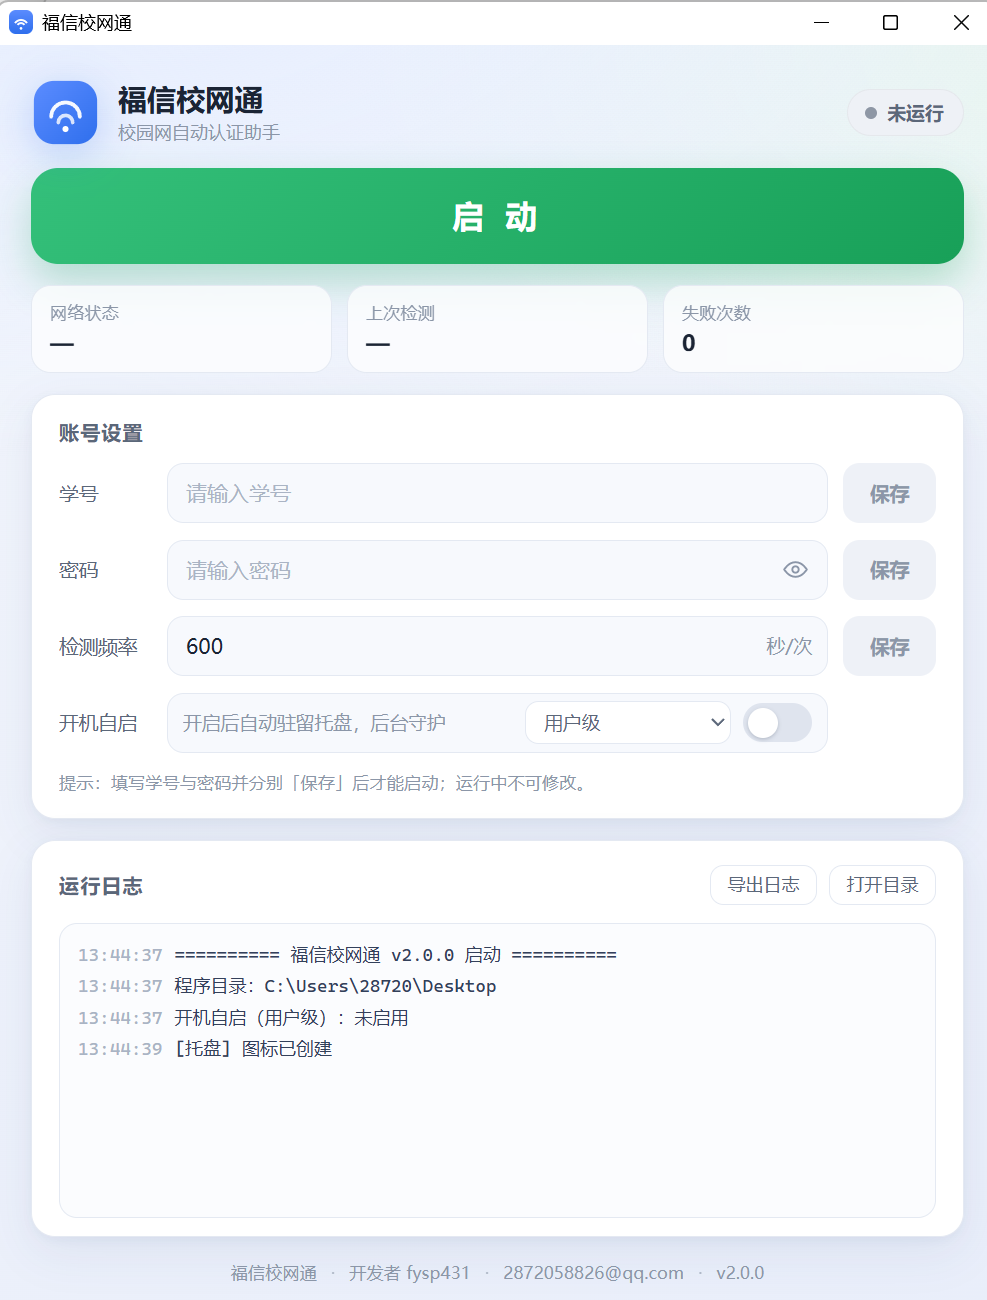
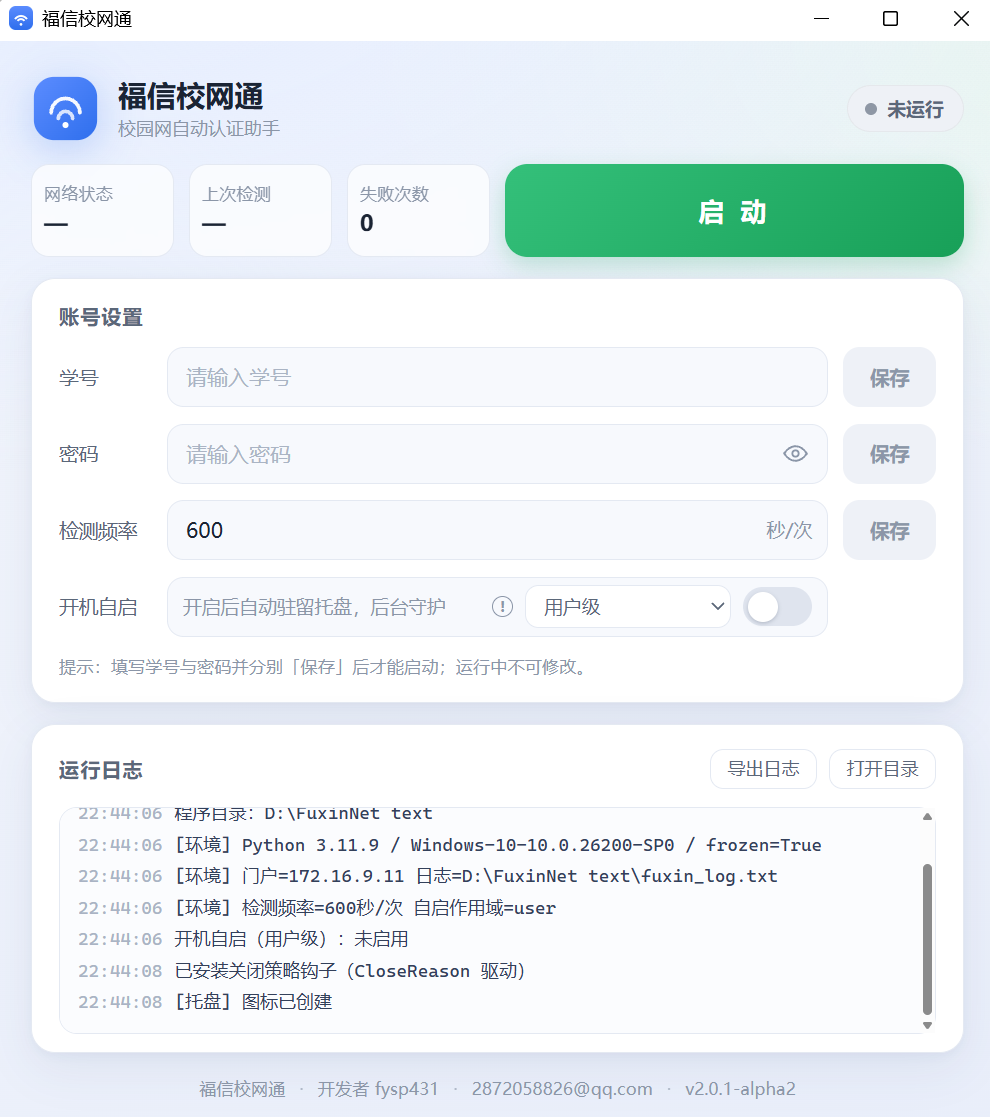
docs: 更新界面截图和README.md文件

diff --git a/README.md b/README.md
@@ -3,7 +3,7 @@
 > 断网自动重连，告别手动点「登录」。一个常驻托盘的小工具，专为 **福建信息职业技术学院平潭校区（FJPIT）** 校园网 ePortal 认证打造。
 
 <p>  
-  <img alt="version" src="https://img.shields.io/badge/version-v2.0.1--alpha1-2f6fed">  
+  <img alt="version" src="https://img.shields.io/badge/version-v2.0.1--alpha2-2f6fed">  
   <img alt="platform" src="https://img.shields.io/badge/platform-Windows%2010%2F11%20x64-0078d4">  
   <img alt="python" src="https://img.shields.io/badge/python-3.11-3776ab">  
   <img alt="ui" src="https://img.shields.io/badge/UI-pywebview%20%2B%20WebView2-18a058">  
@@ -40,9 +40,18 @@
 - 日志超过 2 MB 自动轮转，保留 3 份历史（`.1`~`.3`）
 - 检测频率最低 **10 秒/次**；需在停止状态下修改，下次启动生效
 
+**自动运行与关机记录**
+
+- **记住上次运行状态**：启动时若上次退出前监控正在运行（且已保存账号密码），自动开始检测；手动点「停止」后下次不再自动运行
+- **等待网络就绪**：开机/启动时先等门户可达，最多 **180 秒**、每 5 秒重试；等待期间**不计入失败次数**，超时也照常进入检测循环
+- **关闭原因分类**：托盘「退出」、系统关机/注销（明确记录为非用户操作）、异常关闭（下次启动回查运行标记并补记）
+- 关机时只记录原因并放行，**不隐藏窗口、不阻塞系统关机**
+
 **界面**
 
 - 卡片式现代 UI：状态徽标、在线/离线、上次检测、失败计数一屏可见
+- 三个指标方框占左半宽，启停按钮占右半宽，点按区域更大；日志区高度做了压缩
+- 自启说明右侧有圈形感叹号，悬停可查看自动运行 / 等待网络 / 关机行为的说明
 - 运行中与停止收尾期间锁定账号、密码与频率，防止误改
 - 保存按钮两态（有改动才可点）、密码显隐
 - 日志实时滚动，支持导出与打开所在目录
@@ -51,7 +60,7 @@
 
 - 点 × 隐藏到托盘继续跑；左键恢复窗口；右键「打开主界面 / 退出」
 - 托盘提示实时显示「运行中 / 已停止」
-- 开机自启（用户级，写入 `HKCU\…\Run`，免管理员），带 `--min` 静默驻留托盘
+- 开机自启（用户级，写入 `HKCU\…\Run`，免管理员），带 `--min` 静默驻留托盘；若上次监控在运行，启动后自动开始检测
 - 自启作用域下拉预留「系统级（开发中）」接口
 
 **安全**
@@ -69,7 +78,7 @@
 4. 需要 **WebView2 运行时**：Win11 与较新的 Win10 自带 Edge 即可；若提示无法初始化界面内核，  
    安装 [Microsoft Edge WebView2 Runtime](https://developer.microsoft.com/microsoft-edge/webview2/) 后重试
 
-> 首次运行会在 exe 同目录生成 `fuxin_log.txt`、`fuxin_config.dat`、`webview_data\`，属正常产物。
+> 首次运行会在 exe 同目录生成 `fuxin_log.txt`、`fuxin_config.dat`、`fuxin_running.marker`、`webview_data\`，属正常产物。
 
 ## 快速上手
 
@@ -77,7 +86,8 @@
 2. 填「密码」→ 点 **保存**（保存后输入框提示"已保存，留空则不修改"）
 3. 点顶部绿色 **启 动**
 
-运行后按钮变红「停 止」，账号信息锁定。要改设置先点停止；若此时正在认证，界面会显示「正在停止」，后台收尾完成后自动恢复可编辑状态。
+运行后按钮变红「停 止」，账号信息锁定。要改设置先点停止；若此时正在认证，界面会显示「正在停止」，后台收尾完成后自动恢复可编辑状态。  
+若启动时校园网尚未就绪，状态会显示「等待网络」，最多等待约 180 秒，期间不计失败次数。
 
 **断网验证**：连上校园网但处于"需要登录"状态 → 点启动 → 日志应依次出现  
 `检测到断网（第N次检测），开始认证` → `已获取认证跳转URL: …` → `[认证] 认证成功，网络已恢复 用时=…ms`。
@@ -87,14 +97,19 @@
 | 项    | 说明                                    |
 | ---- | ------------------------------------- |
 | 检测频率 | 单位 **秒/次**，最小 **10**（默认 600）、必须整数、**不设上限**；停止状态下修改，下次启动生效；旧配置中低于 10 的值会自动按 10 读取 |
+| 自动运行 | 启动时若上次退出前监控在运行且已保存账号密码，自动开始检测；手动点「停止」后下次启动保持停止 |
+| 等待网络 | 开机/启动时门户不可达会先等待，最长 **180 秒**（每 5 秒重试），不计入失败次数 |
 | 开机自启 | 作用域选「用户级」后打开开关；选「系统级（开发中）」时开关置灰       |
 | 关闭窗口 | 隐藏到托盘，后台继续运行                          |
 | 真正退出 | 托盘右键 →「退出」（会先停止检测并写日志）                |
+| 关机/注销 | 记录「系统关机或注销，非用户操作」后放行，不阻塞系统关机；若进程被强杀，下次启动补记异常关闭 |
 | 日志   | exe 同目录 `fuxin_log.txt`，也可在界面「导出日志」   |
 
 ## 工作原理
 
 ```
+等待门户可达（开机最多 180 秒，不计失败；超时照常继续）
+    ↓
 探测在线？ ──是──> 安静等待下一轮
     │
     否
@@ -146,6 +161,24 @@ POST /eportal/InterFace.do?method=login
 
 <details>
 
+<summary><b>开机自启后没有自动开始检测</b></summary>
+
+自动运行取决于「上次退出时的状态」：手动点过「停止」后，程序会记住不再自动运行；  
+另外需要先保存学号和密码。确认后重新点一次「启动」即可恢复下次自动运行。
+
+</details>
+
+<details>
+
+<summary><b>日志为什么写「系统关机或注销，非用户操作」？</b></summary>
+
+程序通过 WinForms 的 `CloseReason` 区分关闭原因：系统关机/注销会写这一条并直接放行，不隐藏窗口、不阻塞关机；  
+托盘「退出」写「用户手动退出」；任务管理器强杀无法在死亡瞬间写日志，会在下次启动时补记「疑似异常关闭」。
+
+</details>
+
+<details>
+
 <summary><b>提示"已在运行中"</b></summary>
 
 托盘里已有一个实例，它会自动把窗口叫出来——不需要也不允许再开第二个。
@@ -178,6 +211,7 @@ POST /eportal/InterFace.do?method=login
 | 加密 | cryptography（AES-GCM）                      |
 | 托盘 | pystray + Pillow                           |
 | 打包 | PyInstaller（单文件）                           |
+| 关闭判定 | WinForms `FormClosing` + `CloseReason`（区分系统关机 / 点 X / 主动退出） |
 
 ## 目录结构
 
@@ -191,8 +225,8 @@ POST /eportal/InterFace.do?method=login
 ├─ docs/                  # 截图
 ├─ ui/                    # 前端：index.html / style.css / app.js
 ├─ src/fuxin/
-│  ├─ main.py             # DPI、单实例、托盘接线、窗口
-│  ├─ paths.py            # 路径与常量（以 exe 目录为准）
+│  ├─ main.py             # DPI、单实例、托盘、关闭策略、窗口
+│  ├─ paths.py            # 路径与常量（exe 目录、运行标记）
 │  ├─ logger.py           # 日志：文件 + 内存 + 脱敏
 │  ├─ config.py           # 配置：AES-GCM 读写
 │  ├─ net.py              # 直连 HTTP、探测、跳转链
@@ -235,7 +269,7 @@ P0 回归（脱敏 / URL / 登录解析 / RSA / 线程生命周期 / api.stop / 
 python -m PyInstaller --noconfirm --clean fuxin.spec
 ```
 
-产物：`dist\FuxinNet_v2.0.1-alpha1.exe`（单文件）。
+产物：`dist\FuxinNet_v2.0.1-alpha2.exe`（单文件）。
 
 产物名中的版本号由 `src/fuxin/paths.py` 的 `APP_VERSION` 自动生成，发版时只改该常量即可，无需再动 spec。
 
